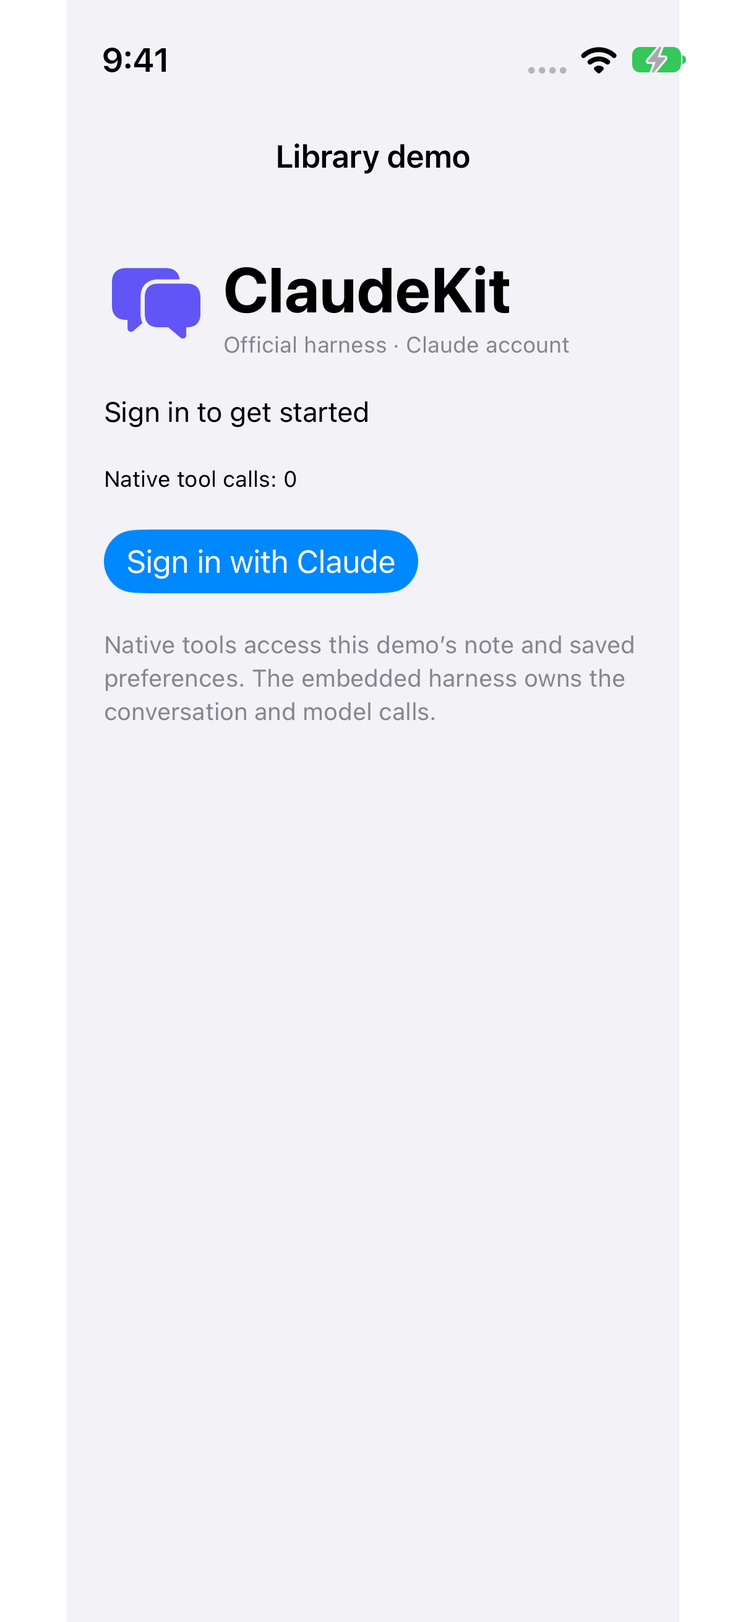
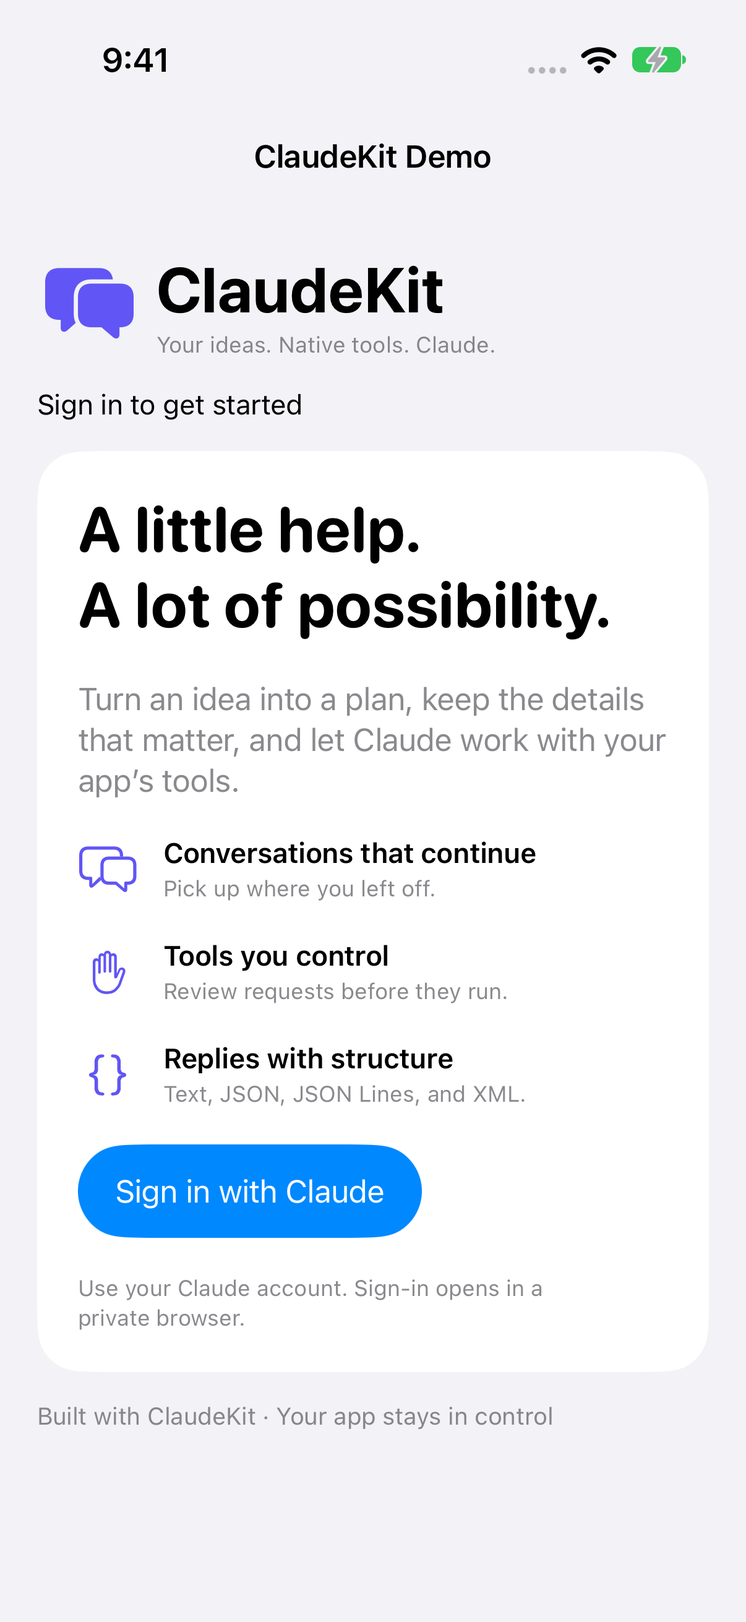
Polish demo presentation and refresh gallery with realistic samples

diff --git a/LibraryDemo/Sources/LibraryDemoApp.swift b/LibraryDemo/Sources/LibraryDemoApp.swift
@@ -9,33 +9,48 @@ import ClaudeKitUI
 
 struct DemoView: View {
     @ObservedObject var model: DemoModel
-    @State private var prompt = "Write a short note about Claude Code on iPhone, then read it back."
+    @State private var prompt = ProcessInfo.processInfo.arguments.contains("--gallery") ? "Save my Saturday plan: coffee in Surry Hills, a walk through the Botanic Garden, then lunch by the harbour. Read it back when you’re done." : "Write a short note about Claude Code on iPhone, then read it back."
     var body: some View {
         NavigationStack {
             ScrollView {
-                VStack(alignment: .leading, spacing: 20) {
+                VStack(alignment: .leading, spacing: 16) {
                     HStack {
                         Image(systemName: "bubble.left.and.bubble.right.fill").font(.largeTitle).foregroundStyle(.indigo)
                         VStack(alignment: .leading) {
                             Text("ClaudeKit").font(.largeTitle.bold())
-                            Text(model.fixture ? "Official harness · local model fixture" : "Official harness · Claude account").font(.caption).foregroundStyle(.secondary)
+                            Text(model.fixture ? "Demo · local sample responses" : "Your ideas. Native tools. Claude.").font(.caption).foregroundStyle(.secondary)
                         }
                     }
                     HStack { if model.busy { ProgressView() }; Text(model.status).font(.subheadline) }
-                    Text("Native tool calls: \(model.toolCalls)").font(.caption).accessibilityIdentifier("native-tool-count")
-                    if let error = model.error { Text(error).foregroundStyle(.red).textSelection(.enabled) }
-                    if let account = model.account {
-                        Label(account.email ?? (model.fixture ? "Fixture account" : "Claude account"), systemImage: "person.crop.circle.badge.checkmark")
-                    } else if model.ready {
-                        Button("Sign in with Claude") { model.signIn() }.buttonStyle(.borderedProminent).disabled(model.busy)
+                    if model.account != nil {
+                        Text("Native tool calls: \(model.toolCalls)").font(.caption).foregroundStyle(.secondary).accessibilityIdentifier("native-tool-count")
                     }
-                    if model.account != nil { Button("Sign out", role: .destructive) { model.signOut() }.disabled(model.busy) }
+                    if let error = model.error { Text(error).foregroundStyle(.red).textSelection(.enabled) }
+                    if model.account == nil {
+                        VStack(alignment: .leading, spacing: 20) {
+                            Text("A little help.\nA lot of possibility.").font(.system(size: 34, weight: .bold, design: .rounded))
+                            Text("Turn an idea into a plan, keep the details that matter, and let Claude work with your app’s tools.").foregroundStyle(.secondary)
+                            welcomeFeature("Conversations that continue", detail: "Pick up where you left off.", icon: "bubble.left.and.bubble.right")
+                            welcomeFeature("Tools you control", detail: "Review requests before they run.", icon: "hand.raised")
+                            welcomeFeature("Replies with structure", detail: "Text, JSON, JSON Lines, and XML.", icon: "curlybraces")
+                            if model.ready {
+                                Button("Sign in with Claude") { model.signIn() }
+                                    .buttonStyle(.borderedProminent).controlSize(.large).disabled(model.busy)
+                            }
+                            Text("Use your Claude account. Sign-in opens in a private browser.").font(.caption).foregroundStyle(.secondary)
+                        }.padding(22).frame(maxWidth: .infinity, alignment: .leading)
+                            .background(.background, in: RoundedRectangle(cornerRadius: 24))
+                    }
                     SignInControls(coordinator: model.signInCoordinator, cancel: { model.cancelSignIn() }, report: { model.error = $0 })
                     if model.account != nil {
-                        if !model.availableModels.isEmpty {
-                            Picker("Model for new conversations", selection: $model.selectedModel) {
-                                ForEach(model.availableModels) { Text($0.displayName).tag($0.id) }
-                            }.disabled(model.busy)
+                        DisclosureGroup("Account & model") {
+                            Label(model.account?.email ?? "Sample account", systemImage: "person.crop.circle")
+                            Button("Sign out", role: .destructive) { model.signOut() }.disabled(model.busy)
+                            if !model.availableModels.isEmpty {
+                                Picker("Model for new conversations", selection: $model.selectedModel) {
+                                    ForEach(model.availableModels) { Text($0.displayName).tag($0.id) }
+                                }.disabled(model.busy)
+                            }
                         }
                         HStack {
                             Text("Conversations").font(.headline)
@@ -53,12 +68,21 @@ struct DemoView: View {
                         }
                         if model.selected != nil {
                             Divider()
-                            ForEach(model.messages) { message in
+                            ForEach(model.messages.filter { message in
+                                model.structuredReply.isEmpty || message.role != .assistant || message.id != model.messages.last?.id
+                            }) { message in
                                 VStack(alignment: .leading, spacing: 5) {
-                                    Text(message.role == .user ? "You" : "Claude").font(.caption.bold()).foregroundStyle(.secondary)
+                                    Label(message.role == .user ? "You" : "Claude", systemImage: message.role == .user ? "person.crop.circle" : "sparkles").font(.caption.bold()).foregroundStyle(.secondary)
                                     Text(message.text).textSelection(.enabled)
                                 }.frame(maxWidth: .infinity, alignment: .leading).padding(12)
                                     .background(Color(.secondarySystemGroupedBackground), in: RoundedRectangle(cornerRadius: 12))
+                            }
+                            if !model.structuredReply.isEmpty {
+                                VStack(alignment: .leading, spacing: 10) {
+                                    Label("Validated \(model.structuredFormat)", systemImage: "checkmark.seal.fill").font(.subheadline.bold()).foregroundStyle(.indigo)
+                                    Text(model.structuredReply).font(.system(.caption, design: .monospaced)).textSelection(.enabled)
+                                }.padding(16).frame(maxWidth: .infinity, alignment: .leading)
+                                    .background(.background, in: RoundedRectangle(cornerRadius: 16))
                             }
                             if !model.streaming.isEmpty { Text(model.streaming).textSelection(.enabled) }
                             if !model.transientReply.isEmpty {
@@ -67,12 +91,14 @@ struct DemoView: View {
                                     Text(model.transientReply).textSelection(.enabled)
                                 }
                             }
-                            Toggle("Ephemeral request", isOn: $model.ephemeral).disabled(model.busy)
-                            Picker("Reply format", selection: $model.replyFormat) {
-                                ForEach(DemoModel.ReplyFormat.allCases, id: \.self) { Text($0.rawValue).tag($0) }
-                            }.disabled(model.busy)
-                            Toggle("Use saved preferences", isOn: $model.useMemory).disabled(model.busy)
-                            Toggle("Allow web search", isOn: $model.useSearch).disabled(model.busy)
+                            DisclosureGroup("Reply settings") {
+                                Toggle("Ephemeral request", isOn: $model.ephemeral).disabled(model.busy)
+                                Picker("Reply format", selection: $model.replyFormat) {
+                                    ForEach(DemoModel.ReplyFormat.allCases, id: \.self) { Text($0.rawValue).tag($0) }
+                                }.disabled(model.busy)
+                                Toggle("Use saved preferences", isOn: $model.useMemory).disabled(model.busy)
+                                Toggle("Allow web search", isOn: $model.useSearch).disabled(model.busy)
+                            }
                             if !model.usageSummary.isEmpty { Text(model.usageSummary).font(.caption) }
                             TextField("Message Claude", text: $prompt, axis: .vertical).lineLimit(2...6).textFieldStyle(.roundedBorder).accessibilityIdentifier("message-input")
                             HStack {
@@ -80,17 +106,26 @@ struct DemoView: View {
                                 if model.busy { Button("Stop", role: .destructive) { model.stop() } }
                                 if model.execution != nil { Button("Add follow-up") { model.steer(prompt) } }
                             }
-                            HStack {
+                            DisclosureGroup("Recovery") {
                                 Button("Recoverable JSON") { model.recover(prompt, resume: false) }.disabled(model.busy)
                                 if model.recoveryID != nil { Button("Resume / replay receipt") { model.recover(prompt, resume: true) }.disabled(model.busy) }
                             }
                         }
                     }
-                    Text("Native tools access this demo’s note and saved preferences. The embedded harness owns the conversation and model calls.").font(.footnote).foregroundStyle(.secondary)
+                    Text(model.fixture ? "Sample responses · Real on-device tool execution" : "Built with ClaudeKit · Your app stays in control").font(.footnote).foregroundStyle(.secondary)
                 }.padding(20)
-            }.background(Color(.systemGroupedBackground)).navigationTitle("Library demo").navigationBarTitleDisplayMode(.inline)
+            }.background(Color(.systemGroupedBackground)).navigationTitle("ClaudeKit Demo").navigationBarTitleDisplayMode(.inline)
                 .task { await model.prepare() }
                 .overlay(alignment: .bottom) { ApprovalPanel(inbox: model.approvals, stop: { model.stop() }) }
+        }
+    }
+    private func welcomeFeature(_ title: String, detail: String, icon: String) -> some View {
+        HStack(spacing: 14) {
+            Image(systemName: icon).font(.title2).foregroundStyle(.indigo).frame(width: 32)
+            VStack(alignment: .leading, spacing: 3) {
+                Text(title).font(.subheadline.bold())
+                Text(detail).font(.caption).foregroundStyle(.secondary)
+            }
         }
     }
 }
@@ -102,8 +137,15 @@ private struct ApprovalPanel: View {
         if let request = inbox.pending.first {
             VStack(alignment: .leading, spacing: 14) {
                 Label("Tool approval", systemImage: "hand.raised.fill").font(.headline)
-                Text(request.invocation.toolName).font(.headline.monospaced())
-                ScrollView { Text(request.invocation.arguments.prettyPrintedJSONString).font(.caption.monospaced()) }.frame(maxHeight: 180)
+                Text(request.invocation.toolName == "write_note" ? "Save your note?" : request.invocation.toolName == "read_note" ? "Read your saved note?" : request.invocation.toolName).font(.title3.bold())
+                Text(request.invocation.toolName).font(.caption.monospaced()).foregroundStyle(.secondary)
+                Text(["write_note", "read_note"].contains(request.invocation.toolName) ? "This tool accesses only the demo’s local note. You decide whether it runs." : "Review the requested action before allowing this tool to run.").font(.subheadline).foregroundStyle(.secondary)
+                if let text = request.invocation.arguments["text"]?.stringValue {
+                    Text(text).font(.body).padding(12).frame(maxWidth: .infinity, alignment: .leading)
+                        .background(.background, in: RoundedRectangle(cornerRadius: 12))
+                } else if request.invocation.toolName != "read_note" {
+                    Text(request.invocation.arguments.prettyPrintedJSONString).font(.caption.monospaced())
+                }
                 HStack {
                     Button("Deny", role: .destructive) { inbox.deny(request.id) }.buttonStyle(.bordered)
                     Button("Stop turn", action: stop).buttonStyle(.bordered)

diff --git a/LibraryDemo/Sources/DemoModel.swift b/LibraryDemo/Sources/DemoModel.swift
@@ -12,6 +12,8 @@ import ClaudeKitUI
     @Published var selected: String?
     @Published var messages: [AgentMessage] = []
     @Published var streaming = ""
+    @Published var structuredReply = ""
+    @Published var structuredFormat = ""
     @Published var toolCalls = 0
     @Published var ephemeral = false
     enum ReplyFormat: String, CaseIterable { case text = "Text", json = "JSON", records = "JSON Lines", xml = "XML" }
@@ -87,7 +89,7 @@ import ClaudeKitUI
     func createThread() {
         guard let runtime else { return }
         Task {
-            do { let thread = try await runtime.createThread(title: "Conversation \(threads.count + 1)", configuration: .init(model: selectedModel)); selected = thread.id; await refresh() }
+            do { let thread = try await runtime.createThread(title: ProcessInfo.processInfo.arguments.contains("--gallery") ? (threads.isEmpty ? "Saturday in Sydney" : "Weekend itinerary") : "Conversation \(threads.count + 1)", configuration: .init(model: selectedModel)); selected = thread.id; structuredReply = ""; await refresh() }
             catch { self.error = error.localizedDescription }
         }
     }
@@ -99,7 +101,7 @@ import ClaudeKitUI
             busy = false
         }
     }
-    func select(_ id: String) { selected = id; Task { await refresh() } }
+    func select(_ id: String) { selected = id; structuredReply = ""; Task { await refresh() } }
     func send(_ prompt: String) {
         guard let runtime, let selected, !busy else { return }
         let isEphemeral = ephemeral
@@ -108,7 +110,7 @@ import ClaudeKitUI
         request.webSearch = useSearch ? .init(mode: .live, maximumCalls: 3) : nil
         switch replyFormat {
         case .json:
-            runTyped(request, output: AgentJSONResponseFormat<DemoAnswer>(name: "answer", schema: .raw(Self.answerSchema))) { $0.answer }; return
+            runTyped(request, output: AgentJSONResponseFormat<DemoAnswer>(name: "answer", schema: .raw(Self.answerSchema))) { JSONValue.object(["answer": .string($0.answer)]).prettyPrintedJSONString }; return
         case .records:
             runTyped(request, output: AgentRecordResponseFormat<DemoAnswer>(name: "answers", schema: .raw(Self.answerSchema), minimumRecords: 1, maximumRecords: 10)) {
                 $0.records.map(\.answer).joined(separator: "\n")
@@ -117,7 +119,7 @@ import ClaudeKitUI
             runTyped(request, output: AgentXMLResponseFormat(name: "answer", schema: .element("answer", text: .string))) { $0.rawXML }; return
         case .text: break
         }
-        busy = true; error = nil; streaming = ""; transientReply = ""; status = "Claude is working…"
+        busy = true; error = nil; streaming = ""; transientReply = ""; structuredReply = ""; status = "Claude is working…"
         turnTask = Task {
             do {
                 let handle = try await runtime.start(request, in: selected); execution = handle
@@ -219,7 +221,7 @@ extension DemoModel {
     private func runTyped<Format: AgentOutputFormat>(_ request: Request, output format: Format,
                                                     render: @escaping @Sendable (Format.Output) -> String) {
         guard let runtime, let selected, !busy else { return }
-        busy = true; error = nil; streaming = ""; transientReply = ""; status = "Claude is working…"
+        busy = true; error = nil; streaming = ""; transientReply = ""; structuredReply = ""; status = "Claude is working…"
         turnTask = Task {
             do {
                 let handle = try await runtime.start(request, in: selected, output: format)
@@ -229,6 +231,8 @@ extension DemoModel {
                     switch event {
                     case .format: units += 1; status = "Receiving output · \(units) events"
                     case let .outputCommitted(_, value):
+                        structuredReply = render(value)
+                        structuredFormat = replyFormat.rawValue
                         if request.isEphemeral { transientReply = render(value) }
                     case let .lifecycle(.toolCallFinished(result)): if result.success { toolCalls += 1 }
                     default: break

diff --git a/LibraryDemo/Tests/LibraryDemoUITests.swift b/LibraryDemo/Tests/LibraryDemoUITests.swift
@@ -15,7 +15,7 @@ final class LibraryDemoUITests: XCTestCase {
         XCTAssertTrue(app.buttons["Sign in with Claude"].waitForExistence(timeout: 30))
         capture("01-sign-in")
         app.terminate()
-        app.launchArguments = ["--fixture"]
+        app.launchArguments = ["--fixture", "--gallery"]
         app.launch()
         XCTAssertTrue(app.buttons["New conversation"].waitForExistence(timeout: 30))
         app.buttons["New conversation"].tap()
@@ -29,11 +29,20 @@ final class LibraryDemoUITests: XCTestCase {
         app.buttons["Allow once"].tap()
         XCTAssertTrue(app.staticTexts["Turn completed"].waitForExistence(timeout: 30))
         capture("04-completed-reply")
+        app.buttons["Reply settings"].tap()
         app.swipeUp()
         capture("05-output-controls")
         app.buttons["Reply format, Text"].tap()
         XCTAssertTrue(app.buttons["JSON Lines"].waitForExistence(timeout: 10))
         capture("06-reply-formats")
+        app.buttons["JSON"].tap()
+        app.swipeDown()
+        app.swipeDown()
+        app.buttons["New conversation"].tap()
+        app.buttons["Send"].tap()
+        XCTAssertTrue(app.staticTexts["Validated JSON"].waitForExistence(timeout: 45))
+        app.swipeUp()
+        capture("07-structured-result")
     }
     func testTypedFormatsAndRecoveryOnEmbeddedHarness() {
         let app = XCUIApplication(); app.launchArguments = ["--fixture", "--verify-formats"]; app.launch()

diff --git a/docs/images/demo/README.md b/docs/images/demo/README.md
@@ -1,17 +1,20 @@
 # ClaudeKit demo gallery
 
-Captured on 23 October 2026 from the actual LibraryDemo app on an iPhone 17 Pro simulator, iOS 27.0 (24A434). Original 1206 × 2622 PNG captures are retained without cropping or retouching. The status bar was set to 9:41 with full Wi-Fi and battery.
+Captured on 24 October 2026 from the actual LibraryDemo app on an iPhone 17 Pro simulator, iOS 27.0 (24A434). Original 1206 × 2622 PNG captures are retained without cropping or retouching. The status bar was set to 9:41 with full Wi-Fi and battery.
 
 | Image | Screen |
 | --- | --- |
 | [01-sign-in.png](01-sign-in.png) | Signed-out Claude-account entry screen; no credentials entered |
-| [02-conversation.png](02-conversation.png) | New fixture conversation and request controls |
-| [03-tool-approval.png](03-tool-approval.png) | Native write-note approval, before the Swift tool runs |
-| [04-completed-reply.png](04-completed-reply.png) | Completed write/read tool loop and saved reply |
+| [02-conversation.png](02-conversation.png) | New sample conversation and request controls |
+| [03-tool-approval.png](03-tool-approval.png) | Native write-note approval with the human-readable Saturday plan, before the Swift tool runs |
+| [04-completed-reply.png](04-completed-reply.png) | Completed write/read tool loop and the saved Saturday plan |
 | [05-output-controls.png](05-output-controls.png) | Memory/search options, fixture usage, composer, and recovery entry point |
 | [06-reply-formats.png](06-reply-formats.png) | Text, JSON, JSON Lines, and XML selection |
+| [07-structured-result.png](07-structured-result.png) | Actual schema-validated JSON itinerary returned through the typed-output API |
 
-Screens 2–6 use `--fixture`: the real pinned official harness runs in embedded NodeMobile, while a deterministic loopback endpoint supplies model responses. The fixture's proof text and UUID are intentional test data. The images do not establish live-account inference, hosted search, or structured generation; the format image shows selection controls. No personal account information is present.
+Screens 2–7 use `--fixture --gallery`: the real pinned official harness runs in embedded NodeMobile, while a deterministic loopback endpoint supplies realistic sample responses. The native write and read tools operate on the demo’s real note file; its contents are checked before the fixture returns a completed reply. The JSON itinerary travels through the harness’s structured-output tool and the SDK’s schema validator. No live account, hosted search, or personal information is shown.
+
+The gallery launch argument selects readable sample prompts and conversation titles. Existing proof-oriented fixture scenarios retain their unique verification markers. Account/model controls, reply settings, and recovery remain available in disclosure sections. Structured results are displayed only after output commit and cleared on conversation changes.
 
 ## Reproduce
 
@@ -31,4 +34,4 @@ xcrun xcresulttool export attachments --path /tmp/claudekit-gallery.xcresult \
   --output-path /tmp/claudekit-gallery-export --filter '*.png'
 ```
 
-The capture test waits for actual UI states, approves the native write/read calls, checks completion, and attaches six full-screen screenshots. The final run passed (one UI test, zero failures); its local result bundle is `/tmp/claudekit-gallery-publish.xcresult`. The captured app source is commit `c505d69`; this PR adds the capture test and documentation. [manifest.json](manifest.json) records PNG checksums.
+The capture test waits for actual UI states, approves the native write/read calls, checks completion, generates validated JSON, and attaches seven full-screen screenshots. The final result bundle is `/tmp/claudekit-gallery-v4.xcresult`. [manifest.json](manifest.json) records source and PNG checksums for the captured build.

diff --git a/LibraryDemo/README.md b/LibraryDemo/README.md
@@ -8,18 +8,17 @@ A small SwiftUI app consuming `ClaudeKit` and `ClaudeKitUI` through a local Swif
 
 <table>
   <tr>
-    <td align="center"><a href="../docs/images/demo/01-sign-in.png"><img src="../docs/images/demo/01-sign-in.png" width="160" alt="ClaudeKit demo: sign in"></a><br>Sign in</td>
-    <td align="center"><a href="../docs/images/demo/02-conversation.png"><img src="../docs/images/demo/02-conversation.png" width="160" alt="ClaudeKit demo: conversation"></a><br>Conversation</td>
-    <td align="center"><a href="../docs/images/demo/03-tool-approval.png"><img src="../docs/images/demo/03-tool-approval.png" width="160" alt="ClaudeKit demo: tool approval"></a><br>Tool approval</td>
-    <td align="center"><a href="../docs/images/demo/04-completed-reply.png"><img src="../docs/images/demo/04-completed-reply.png" width="160" alt="ClaudeKit demo: completed reply"></a><br>Completed reply</td>
-    <td align="center"><a href="../docs/images/demo/05-output-controls.png"><img src="../docs/images/demo/05-output-controls.png" width="160" alt="ClaudeKit demo: output controls"></a><br>Output controls</td>
-    <td align="center"><a href="../docs/images/demo/06-reply-formats.png"><img src="../docs/images/demo/06-reply-formats.png" width="160" alt="ClaudeKit demo: reply formats"></a><br>Reply formats</td>
+    <td align="center"><a href="../docs/images/demo/01-sign-in.png"><img src="../docs/images/demo/01-sign-in.png" width="170" alt="ClaudeKit demo: welcome"></a><br>Welcome</td>
+    <td align="center"><a href="../docs/images/demo/03-tool-approval.png"><img src="../docs/images/demo/03-tool-approval.png" width="170" alt="ClaudeKit demo: approve a tool"></a><br>Approve a tool</td>
+    <td align="center"><a href="../docs/images/demo/04-completed-reply.png"><img src="../docs/images/demo/04-completed-reply.png" width="170" alt="ClaudeKit demo: saved plan"></a><br>Saved plan</td>
+    <td align="center"><a href="../docs/images/demo/06-reply-formats.png"><img src="../docs/images/demo/06-reply-formats.png" width="170" alt="ClaudeKit demo: reply formats"></a><br>Reply formats</td>
+    <td align="center"><a href="../docs/images/demo/07-structured-result.png"><img src="../docs/images/demo/07-structured-result.png" width="170" alt="ClaudeKit demo: validated json"></a><br>Validated JSON</td>
   </tr>
 </table>
 
-Captured on an iPhone 17 Pro simulator running iOS 27.0 on 23 October 2026. Conversation, approval, reply, and format screens use the local model fixture with the real embedded harness. No live account or model responses are shown.
+Plan a Saturday in Sydney, review a native note tool, and receive a validated JSON itinerary. Captured on an iPhone 17 Pro simulator running iOS 27.0 on 24 October 2026. The demo uses labelled local sample responses with the real embedded harness and native tools.
 
-See [capture details and reproduction](../docs/images/demo/README.md) and the [SDK integration guide](../docs/sdk-integration.md).
+See [capture details and reproduction](../docs/images/demo/README.md) and [SDK integration](../docs/sdk-integration.md).
 
 ## Build and run
 

diff --git a/DemoApp/README.md b/DemoApp/README.md
@@ -6,18 +6,17 @@ This existing Xcode project now builds the official Claude Code harness demo wit
 
 <table>
   <tr>
-    <td align="center"><a href="../docs/images/demo/01-sign-in.png"><img src="../docs/images/demo/01-sign-in.png" width="160" alt="ClaudeKit demo: sign in"></a><br>Sign in</td>
-    <td align="center"><a href="../docs/images/demo/02-conversation.png"><img src="../docs/images/demo/02-conversation.png" width="160" alt="ClaudeKit demo: conversation"></a><br>Conversation</td>
-    <td align="center"><a href="../docs/images/demo/03-tool-approval.png"><img src="../docs/images/demo/03-tool-approval.png" width="160" alt="ClaudeKit demo: tool approval"></a><br>Tool approval</td>
-    <td align="center"><a href="../docs/images/demo/04-completed-reply.png"><img src="../docs/images/demo/04-completed-reply.png" width="160" alt="ClaudeKit demo: completed reply"></a><br>Completed reply</td>
-    <td align="center"><a href="../docs/images/demo/05-output-controls.png"><img src="../docs/images/demo/05-output-controls.png" width="160" alt="ClaudeKit demo: output controls"></a><br>Output controls</td>
-    <td align="center"><a href="../docs/images/demo/06-reply-formats.png"><img src="../docs/images/demo/06-reply-formats.png" width="160" alt="ClaudeKit demo: reply formats"></a><br>Reply formats</td>
+    <td align="center"><a href="../docs/images/demo/01-sign-in.png"><img src="../docs/images/demo/01-sign-in.png" width="170" alt="ClaudeKit demo: welcome"></a><br>Welcome</td>
+    <td align="center"><a href="../docs/images/demo/03-tool-approval.png"><img src="../docs/images/demo/03-tool-approval.png" width="170" alt="ClaudeKit demo: approve a tool"></a><br>Approve a tool</td>
+    <td align="center"><a href="../docs/images/demo/04-completed-reply.png"><img src="../docs/images/demo/04-completed-reply.png" width="170" alt="ClaudeKit demo: saved plan"></a><br>Saved plan</td>
+    <td align="center"><a href="../docs/images/demo/06-reply-formats.png"><img src="../docs/images/demo/06-reply-formats.png" width="170" alt="ClaudeKit demo: reply formats"></a><br>Reply formats</td>
+    <td align="center"><a href="../docs/images/demo/07-structured-result.png"><img src="../docs/images/demo/07-structured-result.png" width="170" alt="ClaudeKit demo: validated json"></a><br>Validated JSON</td>
   </tr>
 </table>
 
-Captured on an iPhone 17 Pro simulator running iOS 27.0 on 23 October 2026. Conversation, approval, reply, and format screens use the local model fixture with the real embedded harness. No live account or model responses are shown.
+Plan a Saturday in Sydney, review a native note tool, and receive a validated JSON itinerary. Captured on an iPhone 17 Pro simulator running iOS 27.0 on 24 October 2026. The demo uses labelled local sample responses with the real embedded harness and native tools.
 
-See [capture details and reproduction](../docs/images/demo/README.md) and the [SDK integration guide](../docs/sdk-integration.md).
+See [capture details and reproduction](../docs/images/demo/README.md) and [SDK integration](../docs/sdk-integration.md).
 
 ## Open The App
 

diff --git a/README.md b/README.md
@@ -22,18 +22,17 @@ See the [feature matrix](docs/feature-parity.md) for supported behavior and plat
 
 <table>
   <tr>
-    <td align="center"><a href="docs/images/demo/01-sign-in.png"><img src="docs/images/demo/01-sign-in.png" width="160" alt="ClaudeKit demo: sign in"></a><br>Sign in</td>
-    <td align="center"><a href="docs/images/demo/02-conversation.png"><img src="docs/images/demo/02-conversation.png" width="160" alt="ClaudeKit demo: conversation"></a><br>Conversation</td>
-    <td align="center"><a href="docs/images/demo/03-tool-approval.png"><img src="docs/images/demo/03-tool-approval.png" width="160" alt="ClaudeKit demo: tool approval"></a><br>Tool approval</td>
-    <td align="center"><a href="docs/images/demo/04-completed-reply.png"><img src="docs/images/demo/04-completed-reply.png" width="160" alt="ClaudeKit demo: completed reply"></a><br>Completed reply</td>
-    <td align="center"><a href="docs/images/demo/05-output-controls.png"><img src="docs/images/demo/05-output-controls.png" width="160" alt="ClaudeKit demo: output controls"></a><br>Output controls</td>
-    <td align="center"><a href="docs/images/demo/06-reply-formats.png"><img src="docs/images/demo/06-reply-formats.png" width="160" alt="ClaudeKit demo: reply formats"></a><br>Reply formats</td>
+    <td align="center"><a href="docs/images/demo/01-sign-in.png"><img src="docs/images/demo/01-sign-in.png" width="170" alt="ClaudeKit demo: welcome"></a><br>Welcome</td>
+    <td align="center"><a href="docs/images/demo/03-tool-approval.png"><img src="docs/images/demo/03-tool-approval.png" width="170" alt="ClaudeKit demo: approve a tool"></a><br>Approve a tool</td>
+    <td align="center"><a href="docs/images/demo/04-completed-reply.png"><img src="docs/images/demo/04-completed-reply.png" width="170" alt="ClaudeKit demo: saved plan"></a><br>Saved plan</td>
+    <td align="center"><a href="docs/images/demo/06-reply-formats.png"><img src="docs/images/demo/06-reply-formats.png" width="170" alt="ClaudeKit demo: reply formats"></a><br>Reply formats</td>
+    <td align="center"><a href="docs/images/demo/07-structured-result.png"><img src="docs/images/demo/07-structured-result.png" width="170" alt="ClaudeKit demo: validated json"></a><br>Validated JSON</td>
   </tr>
 </table>
 
-Captured on an iPhone 17 Pro simulator running iOS 27.0 on 23 October 2026. Conversation, approval, reply, and format screens use the local model fixture with the real embedded harness. No live account or model responses are shown.
+Plan a Saturday in Sydney, review a native note tool, and receive a validated JSON itinerary. Captured on an iPhone 17 Pro simulator running iOS 27.0 on 24 October 2026. The demo uses labelled local sample responses with the real embedded harness and native tools.
 
-See [capture details and reproduction](docs/images/demo/README.md) and the [demo walkthrough](LibraryDemo/README.md).
+See [capture details and reproduction](docs/images/demo/README.md) and [the demo walkthrough](LibraryDemo/README.md).
 
 ## Documentation
 

diff --git a/docs/merge-verification-2026-10-23.md b/docs/merge-verification-2026-10-23.md
@@ -27,3 +27,9 @@ The remote `main` was an ancestor of the branch during verification. No pull-req
 ## Demo gallery follow-up
 
 Installed the iOS 27.0 simulator runtime and captured six fresh iPhone 17 Pro screenshots through a passing UI capture test. This exercised fixture conversation creation, native write/read approvals, completion, and the reply-format menu. See [gallery provenance](images/demo/README.md). The complete simulator acceptance suite and live-account/device qualification were not rerun.
+
+## Presentation refresh — 24 October 2026
+
+Reworked the demo welcome, conversation, approval, and committed structured-output presentation. The gallery now uses a readable Saturday itinerary through an explicit `--fixture --gallery` scenario. This remains a deterministic model fixture with actual embedded-harness execution and native note tools; screenshots are not live-model evidence.
+
+The seven-screen capture test passed, including a multiline note write/read round trip and a validated JSON result. Two additional simulator UI tests passed for approval denial and cancellation followed by a fresh conversation. All 34 Swift tests passed with official-harness fixtures enabled on nvm-managed Node 18.19.1. One parallel Swift run exited with SIGPIPE during logout; the subsequent complete run passed. Source and image hashes are recorded in the gallery manifest. This pass did not repeat live-account or physical-device qualification.
